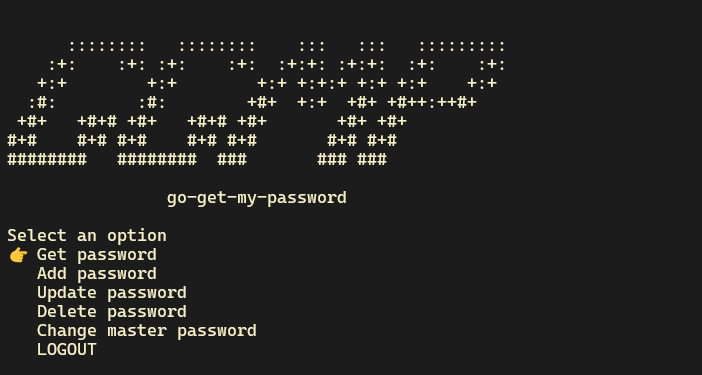
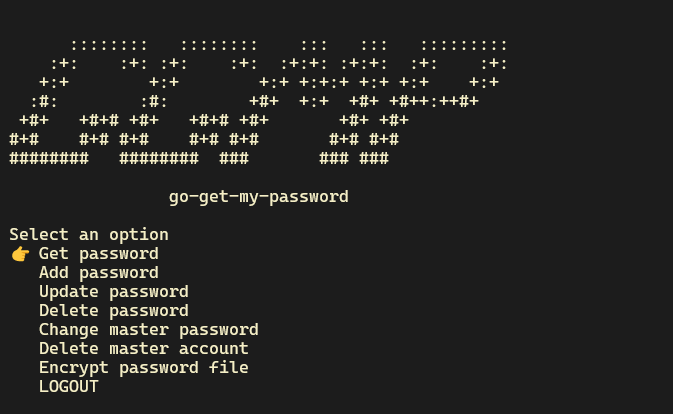
update readme

Changed region(s): [[0.0, 0.088, 0.7489, 0.968]]

diff --git a/README.md b/README.md
@@ -58,26 +58,29 @@ go get modernc.org/sqlite
 - A unique salt is generated for each password, and Argon2 is used for key derivation to protect against brute-force attacks.
 - Users are prompted to enter a master password to access the password manager.
 - The master password is used to derive an encryption key using Argon2, ensuring that the key is unique and secure.
+- The application allows users to encrypt the file that stores all the encrypted passwords. To run the application and decrypt the file, users need to use the -file flag to pass the path to the encrypted file and the -key flag to pass the password to decrypt the file.
+
+### Example
+
+```
+./ggmp -file=./home/myggmpdbfile.db -key=abc123
+```
 
 ## Demo
 
 Here's a step-by-step demo of how to use Go-Get-My-Password:
 
-### Creating master account
+### Creating master password
 
-![Create master account](demo_images/ggmp_master_register.png)
+![Create master password](demo_images/ggmp_create_master_pw_menu.png)
 
-### Login screen
+### Unlock screen (after you've set master password)
 
-![Login Screen](demo_images/ggmp_master_login.png)
+![Unlock screen](demo_images/ggmp_unlock_menu.png)
 
 ### Post login screen
 
-![Passwords menu screen (post login)](demo_images/ggmp_pw_menu.png)
-
-### Main Menu
-
-![Main Menu](demo_images/ggmp_main_menu.png)
+![Passwords menu screen (post unlock)](demo_images/ggmp_pw_menu.png)
 
 ### Adding a new psasword
 
@@ -93,7 +96,11 @@ Here's a step-by-step demo of how to use Go-Get-My-Password:
 
 ### Generating password
 
-![Viewing Passwords](demo_images/ggmp_pw_generator.png)
+![Generating Password](demo_images/ggmp_pw_generator.png)
+
+### Encrypting the database file
+
+![Encrypting file](demo_images/ggmp_encrypt_file.png)
 
 ## Contributing
 
